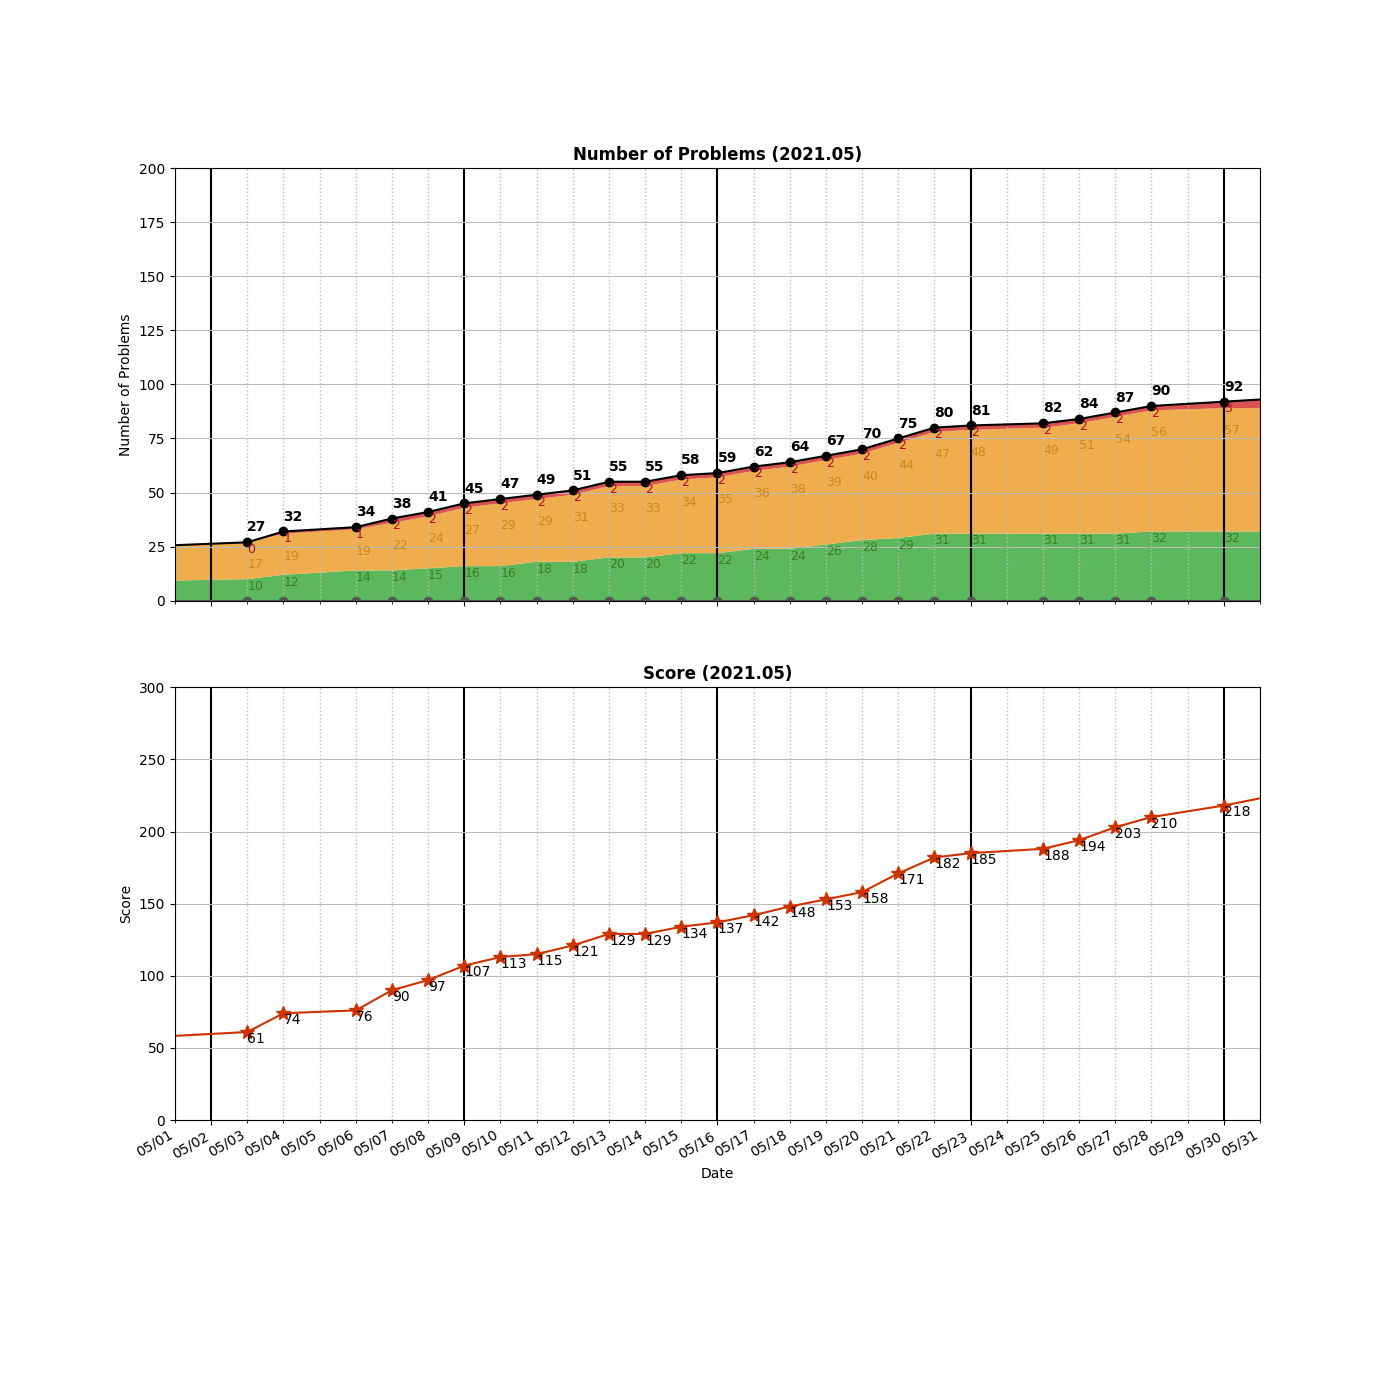
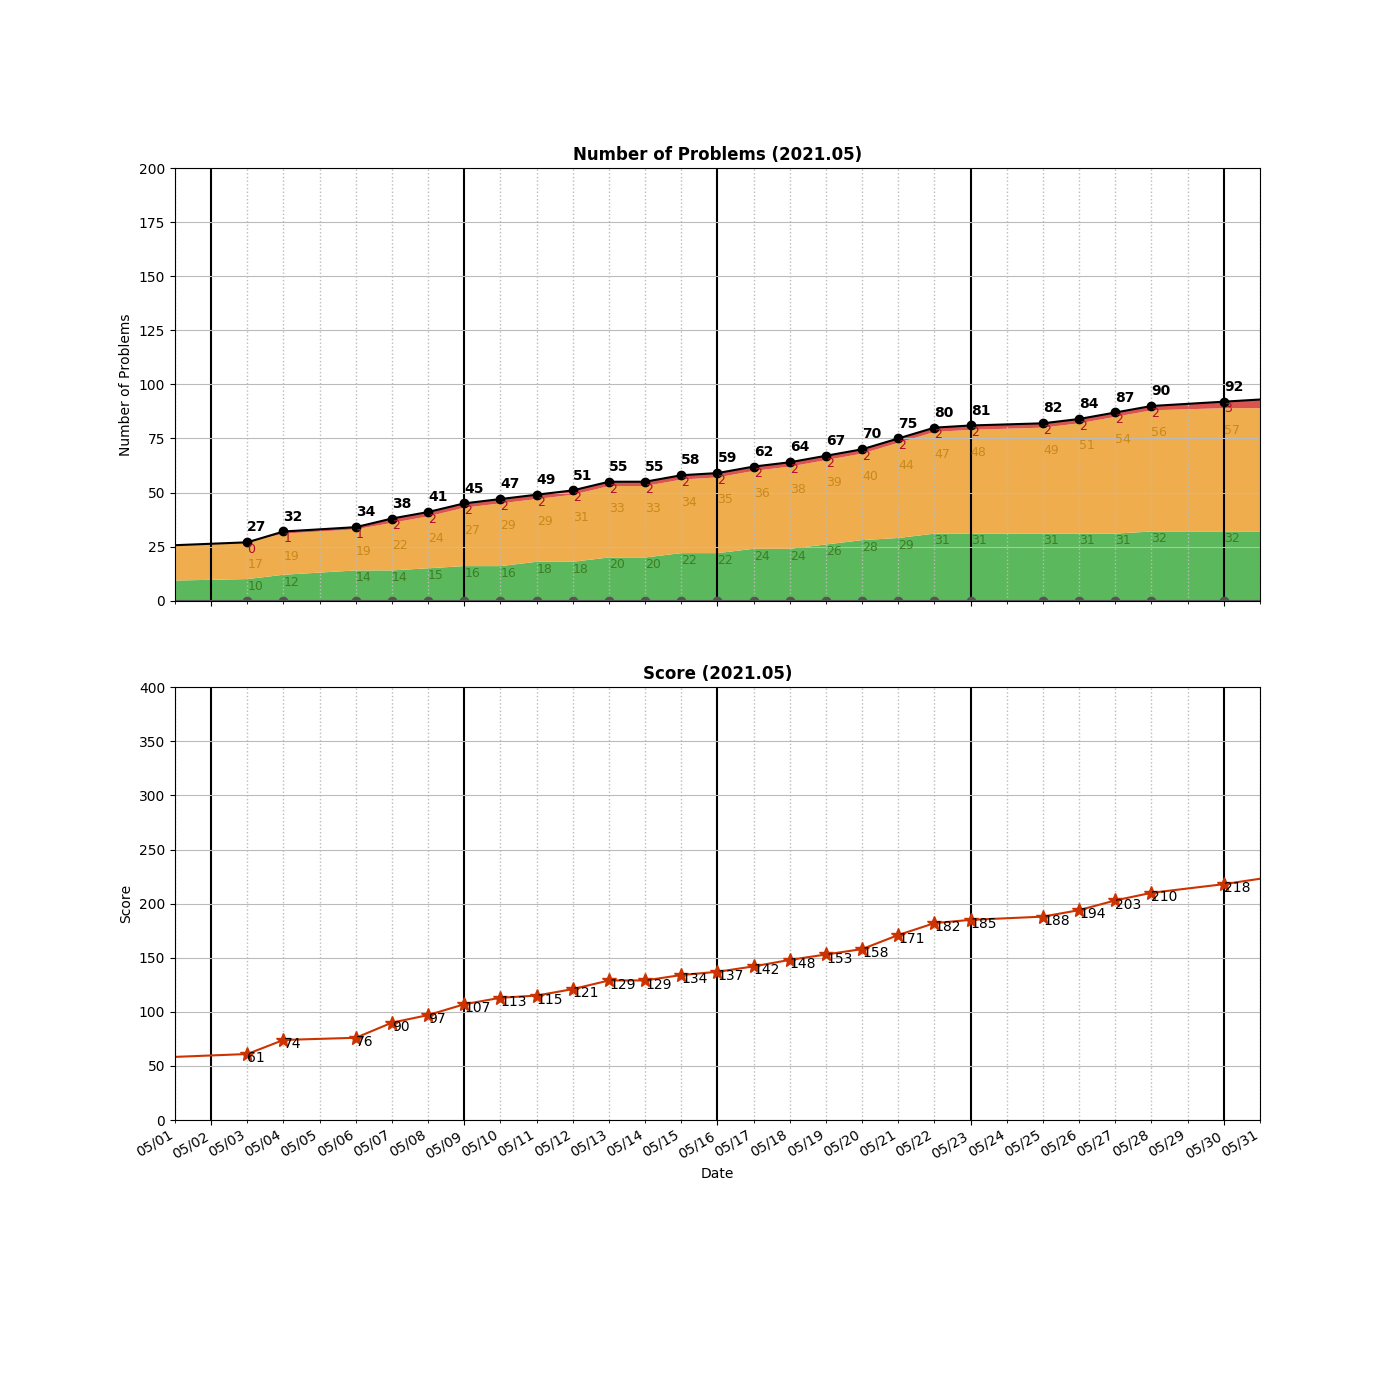
Added __0572__Subtree of Another Tree.py

diff --git a/algodraw.py b/algodraw.py
@@ -36,7 +36,7 @@ FILE_IMAGE_SCORE202008 = FILE_PREFIX_SCORE + "_202008" + ".png"
 FILE_IMAGE_SCORE202104 = FILE_PREFIX_SCORE + "_202104" + ".png"
 FILE_IMAGE_SCORE202105 = FILE_PREFIX_SCORE + "_202105" + ".png"
 FILE_IMAGE_SCORE202106 = FILE_PREFIX_SCORE + "_202106" + ".png"
-
+FILE_IMAGE_SCORE202107 = FILE_PREFIX_SCORE + "_202107" + ".png"
 
 
 DATE_FORMATTER = "%Y-%m-%d"
@@ -181,7 +181,7 @@ def draw(dates, values):
         title="Score (2020.04)")
     #ax2.set_xlim(datetime.datetime(2020,4,1), datetime.datetime(2020,4,30)) 
     axs[1].set_title("Score (2020.04)", fontweight = 'bold')
-    axs[1].set_ylim(0,300) #score of quiz
+    axs[1].set_ylim(0,400) #score of quiz
     axs[1].grid(which='major', color='k', axis ='x', linestyle='-', linewidth=1.5)
     axs[1].grid(which='minor', color='#bbbbbb', axis ='x', linestyle=':', linewidth=1)
     axs[1].grid(which='major', color='#bbbbbb', axis ='y')
@@ -288,6 +288,13 @@ def draw(dates, values):
     axs[0].set_xlim(datetime.datetime(2021,6,1), datetime.datetime(2021,6,30)) 
     plt.savefig(FILE_IMAGE_SCORE202106)
 
+    axs[1].set(xlabel="Date", ylabel="Score",
+    title="Score of Quiz (2021.07)")
+    axs[0].set_title("Number of Problems (2021.07)", fontweight = 'bold')
+    axs[1].set_title("Score (2021.07)", fontweight = 'bold')
+    axs[0].set_xlim(datetime.datetime(2021,7,1), datetime.datetime(2021,7,31)) 
+    plt.savefig(FILE_IMAGE_SCORE202107)
+
     # plt.show()
 
 ###################### 
@@ -375,7 +382,7 @@ if str(today_date) != str(latest_date):
 else:
     print(">> Status: Existed date.")
 
-print(">> Save the image:", FILE_IMAGE_SCORE202104)
+#print(">> Save the image:", FILE_IMAGE_SCORE202104)
 
 #Debug
 # print("dates       :", len(dates))

diff --git a/algo/Tree/__0572__Subtree of Another Tree.py b/algo/Tree/__0572__Subtree of Another Tree.py
@@ -1,0 +1,29 @@
+# Definition for a binary tree node.
+# class TreeNode:
+#     def __init__(self, val=0, left=None, right=None):
+#         self.val = val
+#         self.left = left
+#         self.right = right
+class Solution:
+    def isSubtree(self, root: TreeNode, subRoot: TreeNode) -> bool:
+        if not subRoot:
+            return True
+        return self.dfs(root, subRoot)
+    
+    def dfs(self, root, sub):
+        if not root:
+            return False 
+        if sub.val == root.val and self.isSameTree(root, sub):    #match from this node
+            return True
+        if self.dfs(root.left, sub) or self.dfs(root.right, sub): #match from children's node
+            return True
+        return False
+        
+    def isSameTree(self, root, sub):
+        if not root and not sub:
+            return True
+        if not root or not sub:
+            return False
+        if root.val != sub.val:
+            return False
+        return self.isSameTree(root.left, sub.left) and self.isSameTree(root.right, sub.right)

diff --git a/generate_readme.py b/generate_readme.py
@@ -11,3 +11,4 @@ os.system('echo "\`\`\`"')
 print("![Alt text](score_202104.png)")
 print("![Alt text](score_202105.png)")
 print("![Alt text](score_202106.png)")
+print("![Alt text](score_202107.png)")

diff --git a/README.md b/README.md
@@ -68,6 +68,7 @@ algo
 │   ├── __0062__Unique\ Paths.py
 │   ├── __0064__Minimum\ Path\ Sum.py
 │   ├── __0070__Climbing\ Stairs.py
+│   ├── __0119__Pascal's\ Triangle\ II.py
 │   ├── __0120__Triangle.py
 │   ├── __0121__Best\ Time\ to\ Buy\ and\ Sell\ Stock.py
 │   ├── __0221__Maximal\ Square.py
@@ -137,6 +138,7 @@ algo
 │   ├── __0437__Path\ Sum\ III.py
 │   ├── __0543__Diameter\ of\ Binary\ Tree.py
 │   ├── __0559__Maximum\ Depth\ of\ N-ary\ Tree.py
+│   ├── __0572__Subtree\ of\ Another\ Tree.py
 │   ├── __0617__Merge\ Two\ Binary\ Trees.py
 │   └── __0863__All\ Nodes\ Distance\ K\ in\ Binary\ Tree.py
 ├── Two-Pointer
@@ -172,7 +174,7 @@ algo
         ├── LinkedList.cpython-37.pyc
         └── UnrolledLinkedList.cpython-37.pyc
 
-19 directories, 152 files
+19 directories, 154 files
 
 =====================================
 ============= Local Repo ============
@@ -228,6 +230,7 @@ __0111__Minimum Depth of Binary Tree.py
 __0112__Path Sum.py
 __0113__Path Sum II.py
 __0114__Flatten Binary Tree to Linked List.py
+__0119__Pascal's Triangle II.py
 __0120__Triangle.py
 __0121__Best Time to Buy and Sell Stock.py
 __0122__Best Time to Buy and Sell Stock II.py
@@ -293,6 +296,7 @@ __0543__Diameter of Binary Tree.py
 __0547__Number of Provinces.py
 __0559__Maximum Depth of N-ary Tree.py
 __0560__Subarray Sum Equals K.py
+__0572__Subtree of Another Tree.py
 __0576__Out of Boundary Paths.py
 __0617__Merge Two Binary Trees.py
 __0658__Find K Closest Elements.py
@@ -321,7 +325,7 @@ __1429__First Unique Number.py
 __1593__Split a String Into the Max Number of Unique Substrings.py
 __1905__Count Sub Islands.py
 =====================================
-Num of Python Practice:  143
+Num of Python Practice:  145
 
 
 =====================================
@@ -380,6 +384,7 @@ Num of Python Practice:  143
  0112 Path Sum
  0113 Path Sum II
  0114 Flatten Binary Tree to Linked List
+ 0119 Pascal's Triangle II
  0120 Triangle
  0121 Best Time to Buy and Sell Stock
  0122 Best Time to Buy and Sell Stock II
@@ -445,6 +450,7 @@ Num of Python Practice:  143
  0547 Number of Provinces
  0559 Maximum Depth of N-ary Tree
  0560 Subarray Sum Equals K
+ 0572 Subtree of Another Tree
  0576 Out of Boundary Paths
  0617 Merge Two Binary Trees
  0658 Find K Closest Elements
@@ -474,14 +480,15 @@ Num of Python Practice:  143
  1593 Split a String Into the Max Number of Unique Substrings
  1905 Count Sub Islands
 =====================================
-Solved / Total (Easy)  :   46 /  502
+Solved / Total (Easy)  :   48 /  502
 Solved / Total (Medium):   92 / 1013
-Solved / Total (Hard)  :    8 /  403
-Solved / Total (All)   :  146 / 1918
-Total Score            :  362
+Solved / Total (Hard)  :    8 /  404
+Solved / Total (All)   :  148 / 1919
+Total Score            :  364
 =====================================
 
 ```
 ![Alt text](score_202104.png)
 ![Alt text](score_202105.png)
 ![Alt text](score_202106.png)
+![Alt text](score_202107.png)
